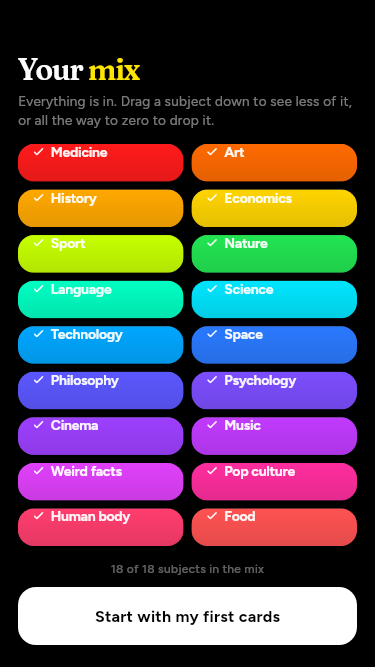
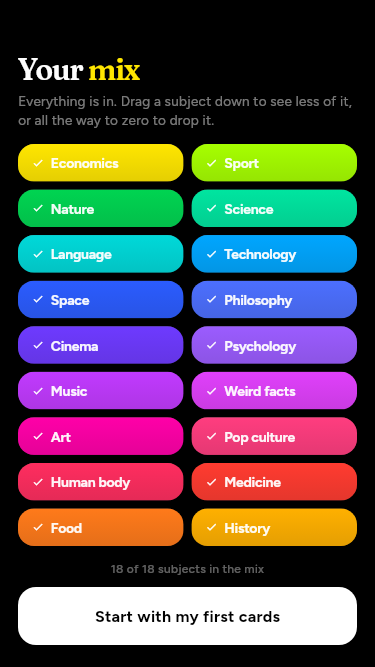
Match artboard 50a, measured against the artboard itself
50 is 49a with the palette reworked, so the screen takes VIVID2: the order
walks the wheel from pure yellow round to amber, Science and Nature stop
colliding, and Philosophy sits beside Space.

Rather than judging by eye, this rebuilds 50a as a page from the canvas's
own CSS and data, shoots it in Chromium at 402x874, and compares. That found
three real faults:

- The label row was an unpositioned Stack child, so it took only the height
  it needed and the text rode at the top of the tile instead of the middle.
  The canvas has inset:0 on it.
- The tick was the rounded Material check at 13px, much heavier than the
  10.5px glyph it stands in for. Plain check at 12, and the gap is the
  canvas's 7.
- Bottom padding was the whole safe area. The canvas uses 22 — its artboard
  is already a phone with a home indicator — which cost every row two
  pixels. Only a bar deeper than an iPhone's pushes the button up now.

Tiles now measure 60px against the artboard's 61, and the button lands on
the same pixels. The five that remain are the notch: a real one is taller
than the one the canvas draws, and the title must not run under the clock.

diff --git a/lib/screens/mix_screen.dart b/lib/screens/mix_screen.dart
@@ -13,31 +13,31 @@ class MixSubject {
   final Color color;
 }
 
-/// The eighteen subjects of artboard 49a, in the canvas's own order: hues
-/// taken from the top corner of the picker, spaced around the wheel so the
-/// grid reads as a spectrum.
+/// The eighteen subjects of artboard 50a, in the canvas's own order and
+/// hues: the second pass at the palette, which walks the wheel from pure
+/// yellow all the way round to amber and stops the two greens colliding.
 ///
 /// Medicine, Art, Sport, Cinema, Music and Food have no cards behind them
 /// yet, so they carry no topic key and contribute nothing to the mix.
 const List<MixSubject> kMixSubjects = [
-  MixSubject(null, 'Medicine', Color(0xFFFF1A1A)),
-  MixSubject(null, 'Art', Color(0xFFFF6A00)),
-  MixSubject('history', 'History', Color(0xFFFFA800)),
-  MixSubject('economics', 'Economics', Color(0xFFFFD400)),
-  MixSubject(null, 'Sport', Color(0xFFC6FF00)),
-  MixSubject('nature', 'Nature', Color(0xFF22E551)),
-  MixSubject('language', 'Language', Color(0xFF00FFC2)),
-  MixSubject('science', 'Science', Color(0xFF00E5FF)),
+  MixSubject('economics', 'Economics', Color(0xFFFFE600)),
+  MixSubject(null, 'Sport', Color(0xFFA6FF00)),
+  MixSubject('nature', 'Nature', Color(0xFF00D451)),
+  MixSubject('science', 'Science', Color(0xFF00E5A0)),
+  MixSubject('language', 'Language', Color(0xFF00D9D9)),
   MixSubject('technology', 'Technology', Color(0xFF00A6FF)),
-  MixSubject('space', 'Space', Color(0xFF2979FF)),
-  MixSubject('philosophy', 'Philosophy', Color(0xFF5B57FF)),
-  MixSubject('psychology', 'Psychology', Color(0xFF7C4DFF)),
-  MixSubject(null, 'Cinema', Color(0xFF9D3FFF)),
+  MixSubject('space', 'Space', Color(0xFF2B5CFF)),
+  MixSubject('philosophy', 'Philosophy', Color(0xFF4C6FFF)),
+  MixSubject(null, 'Cinema', Color(0xFF6E3AFF)),
+  MixSubject('psychology', 'Psychology', Color(0xFF9B5CFF)),
   MixSubject(null, 'Music', Color(0xFFC13AFF)),
   MixSubject('weird_facts', 'Weird facts', Color(0xFFE040FB)),
-  MixSubject('pop_culture', 'Pop culture', Color(0xFFFF2D9E)),
-  MixSubject('human_body', 'Human body', Color(0xFFFF3D6E)),
-  MixSubject(null, 'Food', Color(0xFFFF5252)),
+  MixSubject(null, 'Art', Color(0xFFFF00A8)),
+  MixSubject('pop_culture', 'Pop culture', Color(0xFFFF3D7F)),
+  MixSubject('human_body', 'Human body', Color(0xFFFF2D5F)),
+  MixSubject(null, 'Medicine', Color(0xFFFF3B30)),
+  MixSubject(null, 'Food', Color(0xFFFF7A1A)),
+  MixSubject('history', 'History', Color(0xFFFFB000)),
 ];
 
 /// Below this a subject is out of the mix rather than merely quiet.
@@ -101,11 +101,16 @@ class _MixScreenState extends State<MixScreen> {
       body: Padding(
         padding: EdgeInsets.fromLTRB(
           18,
-          // The canvas clears the status bar with 54; a taller notch needs
-          // more, and never less.
+          // The canvas clears its own status bar with 54. A real notch is
+          // taller than the one it draws, so take whichever is bigger —
+          // never less, or the title runs under the clock.
           safe.top > 54 ? safe.top : 54,
           18,
-          safe.bottom > 22 ? safe.bottom : 22,
+          // 22, as the canvas has it. The artboard is already a phone with a
+          // home indicator and the designer put the button here; only a
+          // device whose bar is deeper than an iPhone's gets pushed further
+          // up.
+          22 + (safe.bottom > 34 ? safe.bottom - 34 : 0),
         ),
         child: Column(
           crossAxisAlignment: CrossAxisAlignment.stretch,
@@ -366,40 +371,49 @@ class _MixTile extends StatelessWidget {
                         ),
                       ),
                     ),
-                    Padding(
-                      padding: const EdgeInsets.symmetric(horizontal: 14),
-                      child: Row(
-                        children: [
-                          AnimatedOpacity(
-                            duration: const Duration(milliseconds: 150),
-                            opacity: live ? 1 : 0,
-                            // An icon, not the ✓ character: Figtree does not
-                            // carry that glyph and it came out as an empty
-                            // box.
-                            child: const Icon(
-                              Icons.check_rounded,
-                              size: 13,
-                              color: Colors.white,
+                    // inset:0 — the row has to fill the tile, or an
+                    // unpositioned Stack child takes only the height it needs
+                    // and the label rides at the top instead of the middle.
+                    Positioned.fill(
+                      child: Padding(
+                        padding: const EdgeInsets.symmetric(horizontal: 14),
+                        child: Row(
+                          children: [
+                            AnimatedOpacity(
+                              duration: const Duration(milliseconds: 150),
+                              opacity: live ? 1 : 0,
+                              // An icon, not the ✓ character: Figtree does not
+                              // carry that glyph and it came out as an empty
+                              // box.
+                              // The canvas sets a plain check glyph at
+                              // 10.5px; Figtree has no such glyph, and the
+                              // rounded icon came out far heavier than the
+                              // mark it stands in for.
+                              child: const Icon(
+                                Icons.check,
+                                size: 12,
+                                color: Colors.white,
+                              ),
                             ),
-                          ),
-                          const SizedBox(width: 6),
-                          Expanded(
-                            child: Text(
-                              subject.name,
-                              maxLines: 1,
-                              overflow: TextOverflow.ellipsis,
-                              style: AppText.body(
-                                size: 14,
-                                weight: FontWeight.w700,
-                                height: 1.1,
-                                spacing: -0.3,
-                                color: Colors.white.withValues(
-                                  alpha: live ? 0.94 : 0.3,
+                            const SizedBox(width: 7),
+                            Expanded(
+                              child: Text(
+                                subject.name,
+                                maxLines: 1,
+                                overflow: TextOverflow.ellipsis,
+                                style: AppText.body(
+                                  size: 14,
+                                  weight: FontWeight.w700,
+                                  height: 1.1,
+                                  spacing: -0.3,
+                                  color: Colors.white.withValues(
+                                    alpha: live ? 0.95 : 0.3,
+                                  ),
                                 ),
                               ),
                             ),
-                          ),
-                        ],
+                          ],
+                        ),
                       ),
                     ),
                   ],
